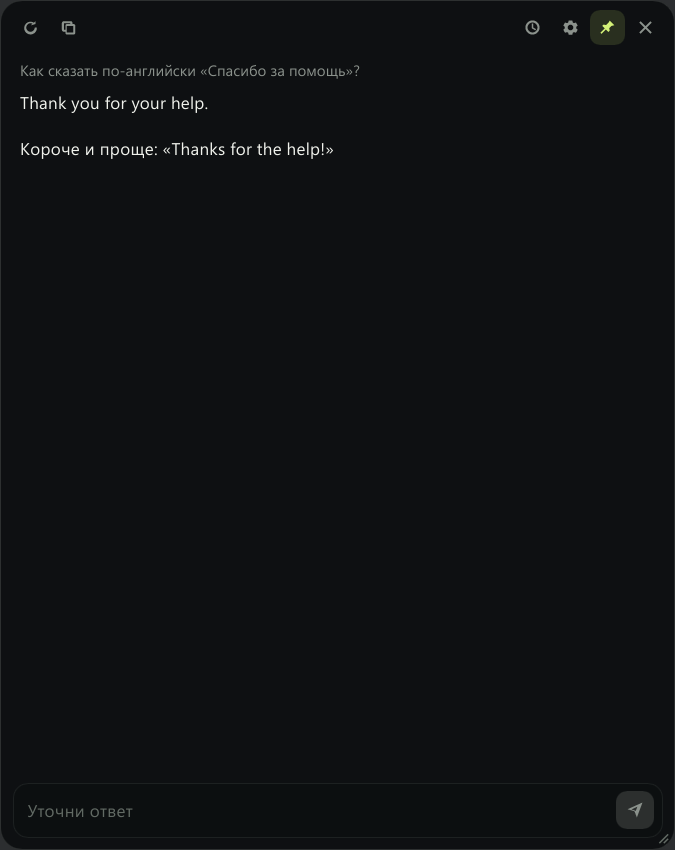
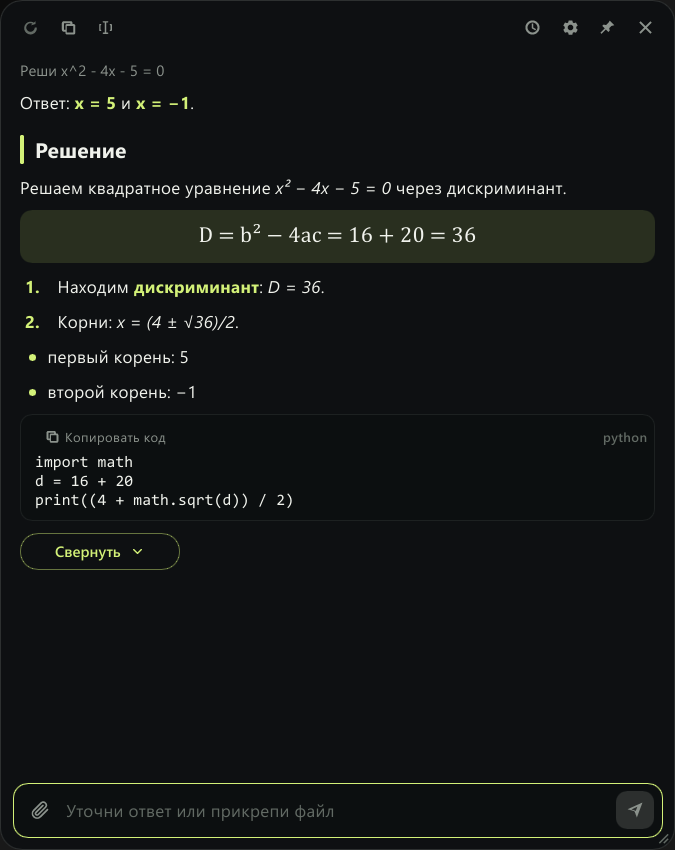
Описание программы и картинки для 1.3.1: README, английский README, CONTRIBUTING, снимки окна

diff --git a/src/main.rs b/src/main.rs
@@ -1928,6 +1928,9 @@ fn run_demo(out: std::path::PathBuf) {
     if std::env::var("NORTEX_DEMO_LIVE").is_ok() {
         return run_demo_live(out);
     }
+    if std::env::var("NORTEX_DEMO_README").is_ok() {
+        return run_demo_readme(out);
+    }
     if let Ok(qs) = std::env::var("NORTEX_DEMO_QS") {
         return run_demo_real(out, qs.split('|').map(|q| q.trim().to_string()).filter(|q| !q.is_empty()).collect());
     }
@@ -2162,6 +2165,71 @@ fn run_demo_real(out: std::path::PathBuf, qs: Vec<String>) {
         });
     });
     std::mem::forget(timer);
+}
+
+/// Debug builds only: the three pictures of the README (main window, an answer with details, settings).
+#[cfg(debug_assertions)]
+fn run_demo_readme(out: std::path::PathBuf) {
+    fn shot(out: &std::path::Path, name: &str) {
+        let Some(h) = APP.with(|a| a.borrow().as_ref().and_then(|r| r.borrow().hwnd())) else { return };
+        let Some((x, y, w, ht)) = native::window_rect(h) else { return };
+        let Some((mx, my, mw, _mh, rgba)) = native::capture_cursor_monitor_rect() else { return };
+        let (cx, cy) = ((x - mx).max(0) as u32, (y - my).max(0) as u32);
+        let w = w.min(mw.saturating_sub(cx));
+        let mut img = image::RgbaImage::new(w, ht);
+        for yy in 0..ht {
+            for xx in 0..w {
+                let i = (((cy + yy) * mw + cx + xx) * 4) as usize;
+                if i + 3 < rgba.len() {
+                    img.put_pixel(xx, yy, image::Rgba([rgba[i], rgba[i + 1], rgba[i + 2], 255]));
+                }
+            }
+        }
+        let _ = img.save(out.join(name));
+    }
+    const ANSWER: &str = r#"Ответ: **x = 5** и **x = −1**.
+<<<MORE>>>
+## Решение
+Решаем квадратное уравнение $x^2 - 4x - 5 = 0$ через дискриминант.
+
+$$D = b^2 - 4ac = 16 + 20 = 36$$
+
+1. Находим **дискриминант**: $D = 36$.
+2. Корни: $x = \frac{4 \pm \sqrt{36}}{2}$.
+
+- первый корень: 5
+- второй корень: −1
+
+```python
+import math
+d = 16 + 20
+print((4 + math.sqrt(d)) / 2)
+```"#;
+    Timer::single_shot(Duration::from_millis(900), || with_app(|a| a.mode_free()));
+    Timer::single_shot(Duration::from_millis(2200), { let o = out.clone(); move || shot(&o, "screenshot-main.png") });
+    Timer::single_shot(Duration::from_millis(2500), || {
+        with_app(|a| {
+            a.new_chat();
+            let cid = a.chat_id;
+            a.push_answer(Answer { text: ANSWER.into(), req: None, chat: Some(cid), is_error: false, record_q: None, question: "Реши x^2 - 4x - 5 = 0".into() });
+        })
+    });
+    Timer::single_shot(Duration::from_millis(3500), || with_app(|a| a.toggle_more()));
+    Timer::single_shot(Duration::from_millis(4800), { let o = out.clone(); move || shot(&o, "screenshot-answer.png") });
+    Timer::single_shot(Duration::from_millis(5000), || with_app(|a| a.toggle_settings()));
+    Timer::single_shot(Duration::from_millis(5600), || {
+        with_app(|a| {
+            if let Some(h) = a.hwnd() {
+                if let Some((x, _y, w, _)) = native::window_rect(h) {
+                    native::set_window_rect(h, x, 0, w, 1010);
+                }
+            }
+        })
+    });
+    Timer::single_shot(Duration::from_millis(7000), { let o = out.clone(); move || shot(&o, "screenshot-settings.png") });
+    Timer::single_shot(Duration::from_millis(7400), || {
+        let _ = slint::quit_event_loop();
+    });
 }
 
 fn main() {

diff --git a/README.md b/README.md
@@ -38,13 +38,14 @@
 
 - **Вопрос по выделенному тексту.** Выделите текст в любой программе и нажмите Alt+Q. Буфер обмена потом восстанавливается.
 - **Вопрос по скриншоту.** Alt+W: экран замирает, вы обводите нужную область мышью. До 4 снимков в одном вопросе, картинку можно вставить и через Ctrl+V.
+- **Короткий ответ и подробности.** Сначала приходит короткий ответ, а объяснение раскрывается кнопкой «Подробнее». В настройках («Ответы») это можно выключить.
+- **Аккуратный ответ.** Заголовки, списки, цитаты, формулы и блоки кода. У каждого блока кода своя кнопка «Копировать код». Кнопка «Копировать» в панели копирует короткий ответ без оформления, а «Выделить текст» превращает ответ в простой текст, который можно выделить мышью.
+- **Файлы.** Скрепка слева от поля ввода прикрепляет текстовые файлы к вопросу. Папку можно перетащить в закреплённое окно.
 - **Диалог.** Ответ можно уточнить следующим вопросом. История хранится зашифрованной, её можно открыть и продолжить.
 - **Две нейросети на выбор.** Google Gemini (несколько моделей) или Groq (Qwen 3.8 27B). Обе дают бесплатный ключ.
 - **Режим «Поверх окон».** Короткий ответ в маленьком окне, которое не забирает фокус: работает над играми, видео и лекциями.
-- **Короткий ответ и подробности.** Сначала короткий ответ, а объяснение раскрывается кнопкой «Подробнее».
-- **Аккуратный ответ.** Заголовки, списки, формулы и блоки кода. Кнопка «Копировать» копирует короткий ответ без оформления.
-- **Файлы и папки.** Скрепка слева от поля ввода прикрепляет текстовые файлы к вопросу, а папку можно перетащить в окно мышью.
-- **Под себя.** Стиль ответов (свой промпт и заготовки), тёмная и светлая тема, прозрачность, акцентный цвет, свои горячие клавиши.
+- **Два языка.** Интерфейс и ответы переключаются между русским и английским кнопкой RU | EN внизу настроек. По умолчанию ответ приходит на языке вопроса, а если язык определить нельзя, на русском.
+- **Под себя.** Стиль ответов (свой промпт и заготовки), размер текста ответа, тёмная и светлая тема, прозрачность, акцентный цвет, свои горячие клавиши.
 
 ## Быстрый старт
 
@@ -70,15 +71,16 @@
 
 - **Esc** прячет окно и останавливает ответ;
 - **Ctrl+V** в поле ввода вставляет картинку из буфера обмена;
+- **скрепка** слева от поля ввода прикрепляет текстовые файлы;
 - **кнопка-булавка** закрепляет окно, чтобы оно не пряталось при клике в другое место.
 
 <p align="center">
-  <img src="docs/images/screenshot-settings.png" width="640" alt="Настройки: внешний вид и стиль ответов">
+  <img src="docs/images/screenshot-settings.png" width="640" alt="Настройки: подключение, внешний вид, ответы">
 </p>
 
 ## Режим «Поверх окон»
 
-Включается в настройках: «Поведение» → «Поверх окон». После этого:
+Включается в настройках: «Внешний вид» → «Поверх окон». После этого:
 
 - Alt+W сразу снимает весь экран и отправляет снимок, без выделения области;
 - короткий ответ появляется в маленьком окне. Окно не забирает фокус у игры и пропускает клики;
@@ -98,7 +100,7 @@
 
 - Ключи API, настройки и история хранятся **только на вашем компьютере**.
 - Файлы шифруются AES-256-GCM. Ключ шифрования защищён Windows DPAPI, поэтому прочитать файлы можно только под вашей учётной записью Windows.
-- Вопросы, текст и скриншоты отправляются **только выбранному провайдеру**: Google Gemini или Groq. Других серверов у программы нет.
+- Вопросы, текст, скриншоты и прикреплённые файлы отправляются **только выбранному провайдеру**: Google Gemini или Groq. Других серверов у программы нет.
 - Программа обращается к GitHub, чтобы проверить обновления. Это можно отключить.
 - Скриншоты не сохраняются на диск. В историю попадают только вопросы и ответы.
 
@@ -117,7 +119,7 @@
 
 - Windows 10 или 11, 64-бит.
 - Интернет.
-- Около 22 МБ на диске. Установщик весит около 9 МБ.
+- Около 24 МБ на диске. Установщик весит около 9 МБ.
 - Бесплатный ключ API Gemini или Groq.
 
 ## Вопросы и ответы
@@ -139,6 +141,18 @@
 
 **Как сменить горячие клавиши?**
 «Настройки» → «Горячие клавиши». Нажмите на поле с клавишами и нажмите новое сочетание. Кнопка «По умолчанию» возвращает Alt+Q, Alt+W, Alt+E, Alt+S. Если сочетание занято другой программой, Nortex Assist предупредит.
+
+**Как переключить язык?**
+«Настройки» → внизу слева кнопка RU | EN. Интерфейс меняется сразу. В английском режиме ответы тоже всегда на английском. В русском режиме ответ приходит на языке вопроса, а если язык определить нельзя (например, «56+23*6»), на русском. Попросите «ответь на английском», и ответ придёт на английском.
+
+**Как скопировать ответ или его часть?**
+Кнопка «Копировать» в панели копирует короткий ответ без оформления. У блока кода своя кнопка «Копировать код». Чтобы скопировать часть объяснения, нажмите «Выделить текст»: ответ станет простым текстом, который выделяется мышью.
+
+**Как прикрепить файл или папку?**
+Скрепка слева от поля ввода открывает окно выбора файлов. Папку можно перетащить из Проводника в окно программы, пока оно закреплено кнопкой-булавкой. Читаются текстовые файлы (до 60 штук), служебные и скрытые папки пропускаются.
+
+**Как удалить программу?**
+Обычным способом через «Параметры → Приложения» (для установленной версии). Ещё можно нажать значок корзины внизу настроек: программа спросит подтверждение, кнопка «Удалить» включится через 5 секунд. Сочетание **Alt+Shift+Delete** удаляет программу вместе с настройками, ключами и историей сразу, без вопроса, оно не меняется и не показано в списке горячих клавиш.
 
 **Как полностью закрыть программу?**
 Правый клик по значку в трее → «Выход». Или «Настройки» → «Закрыть программу».

diff --git a/docs/release-notes-draft.md b/docs/release-notes-draft.md
@@ -1,34 +1,34 @@
-<!-- Описание версии 1.3.1 (готово к публикации). Правила: docs/RELEASE_NOTES_TEMPLATE.md. -->
+<!-- Описание версии 1.3.1, опубликовано на GitHub Releases. Следующий черновик пишите по docs/RELEASE_NOTES_TEMPLATE.md. -->
 
 ## Nortex Assist 1.3.1 · 2026-11-03
 
-Ответы стали короче и аккуратнее, программа научилась читать файлы и заговорила по-английски.
+Ответы стали короче и аккуратнее, программа умеет читать файлы и работает на русском и английском.
 
 ### Новое
-- Короткий ответ и кнопка «Подробнее»: сначала суть, а объяснение раскрывается по нажатию. Выключается в настройках («Ответы»).
-- Ответы выглядят аккуратнее: заголовки, списки, формулы и блоки кода. У каждого блока кода своя кнопка «Копировать код».
-- Скрепка в поле ввода: прикрепите к вопросу текстовые файлы, их содержимое попадёт в запрос.
-- Английский язык: переключатель RU | EN внизу настроек. В английском режиме ответы тоже приходят на английском.
-- Кнопка «Выделить текст» в панели: ответ становится простым текстом, который можно выделить мышью и скопировать по частям.
-- Размер текста ответа настраивается в «Внешнем виде».
-- Значок корзины внизу настроек удаляет программу вместе с настройками и историей: кнопка «Удалить» включается через 5 секунд.
+- **Короткий ответ и «Подробнее».** Сначала приходит суть, а объяснение раскрывается по нажатию. Выключается в настройках («Ответы»). Совсем короткие пояснения кнопки не получают.
+- **Аккуратные ответы.** Заголовки, списки, цитаты и блоки кода. Формулы читаются как обычный текст: дроби, степени, корни, греческие буквы. У каждого блока кода своя кнопка «Копировать код».
+- **Скрепка в поле ввода.** Прикрепите к вопросу текстовые файлы: их содержимое попадёт в запрос. Папку можно перетащить в окно, когда оно закреплено кнопкой-булавкой.
+- **Кнопка «Выделить текст».** Ответ становится простым текстом, который можно выделить мышью и скопировать по частям.
+- **Английский язык.** Переключатель RU | EN внизу настроек: интерфейс меняется сразу, в английском режиме ответы тоже приходят на английском.
+- **Размер текста ответа** настраивается в «Внешнем виде» (от 85 до 175 %).
+- **Удаление программы.** Значок корзины внизу настроек: программа спросит подтверждение, кнопка «Удалить» включится через 5 секунд. Удаляются сама программа, настройки, ключи и история.
 
 ### Улучшено
-- Режим «для игр» переименован в «Поверх окон» и перенесён в «Внешний вид»: он подходит и для видео, лекций и любых других программ.
+- Режим «для игр» переименован в «Поверх окон» и перенесён в «Внешний вид». Он подходит и для видео, лекций и любых других программ. Окно подстраивается под длину ответа и открывается у левого верхнего угла окна чата, размер текста (12–32 px) выбирается в настройках с образцом.
 - Кнопка «Копировать» копирует короткий ответ без служебных знаков.
-- Настройки стали компактнее и разложены по блокам: «Подключение», «Внешний вид», «Ответы», «Поведение», «Горячие клавиши», «Обновления».
-- Совсем короткие пояснения не прячутся за кнопкой «Подробнее».
 - Язык ответа: по умолчанию русский. Если вопрос задан на другом языке или вы просите ответить на конкретном, ответ придёт на нём.
+- Настройки стали компактнее и разложены по блокам: «Подключение», «Внешний вид», «Ответы», «Поведение», «Горячие клавиши», «Обновления».
+- Обновлены описание программы и картинки в README (русская и английская версии).
 
 ### Исправлено
 - На запросы вроде «56+23*6» объяснение в «Подробнее» приходило на английском.
 - Groq иногда отвечал ошибкой «Request too large» из-за минутного лимита токенов: теперь программа сама просит ответ покороче и повторяет запрос.
-- Одинаковые имена файлов из разных папок при прикреплении теряли второй файл.
 - «Спросить заново» мог передать нейросети служебные пометки прошлого ответа.
+- При прикреплении двух файлов с одинаковым именем из разных папок второй терялся.
 
 ### Важно
-- Сочетание Alt+Shift+Delete сразу удаляет программу вместе с настройками, ключами и историей, без вопроса. Оно не меняется и не показывается в списке горячих клавиш. Будьте осторожны.
-- Папку к вопросу пока можно только перетащить в окно, когда оно закреплено кнопкой-булавкой.
+- Сочетание **Alt+Shift+Delete** сразу удаляет программу вместе с настройками, ключами и историей, без вопроса. Оно не меняется и не показывается в списке горячих клавиш. Будьте осторожны.
+- Папку к вопросу пока можно только перетащить в окно, когда оно закреплено.
 - Английский перевод сделан без носителя языка, возможны неточности.
 - Всё остальное делать не нужно, обновление ставится автоматически.
 

diff --git a/README.en.md b/README.en.md
@@ -6,7 +6,7 @@
 
 <p align="center">
   A hotkey AI assistant for Windows: ask Gemini or Groq about selected text,<br>
-  a screenshot, or anything you type.
+  a screenshot, a file or anything you type.
 </p>
 
 <p align="center">
@@ -47,11 +47,12 @@ Both update themselves. If Windows SmartScreen warns about an unknown publisher,
 
 ## Features
 
-- **Short answer first.** A one-line answer appears at once; the "Show more" button opens the full explanation.
-- **Readable answers.** Headings, lists, formulas and code blocks (each with its own "Copy code" button). The "Copy" button in the toolbar copies the short answer without formatting; "Select text" turns the answer into plain text you can select with the mouse.
-- **Files.** The paperclip next to the input field attaches text files to your question.
-- **On top of windows.** A small click-through window with a short answer that never takes focus: works over games, videos and lectures.
-- **Two languages.** The whole interface, and the answers, can be switched between Russian and English.
+- **Short answer first.** A one-line answer appears at once; the "Show more" button opens the full explanation (it can be turned off in the settings, "Answers").
+- **Readable answers.** Headings, lists, quotes, formulas and code blocks, each code block with its own "Copy code" button. The "Copy" button in the toolbar copies the short answer without formatting; "Select text" turns the answer into plain text you can select with the mouse.
+- **Files.** The paperclip next to the input field attaches text files to your question. A folder can be dragged into the pinned window.
+- **On top of windows.** A small click-through window with a short answer that never takes focus: works over games, videos and lectures (settings, "Appearance").
+- **Two languages.** The whole interface and the answers can be switched between Russian and English with the RU | EN button at the bottom of the settings. By default the answer is written in the language of the question, and in Russian when the language cannot be told.
+- **Your way.** Answer style (own prompt and presets), answer text size, dark and light theme, opacity, accent colour, your own hotkeys.
 
 ## Hotkeys
 
@@ -65,6 +66,10 @@ You can change them in the settings.
 | **Alt+S** | Repeat the last request. If an answer already came, the model tries a different one |
 
 Esc hides the window and stops the answer. Ctrl+V in the input field pastes an image.
+
+## Uninstalling
+
+Use "Settings → Apps" in Windows for the installed version, or the trash icon at the bottom of the app's settings: it asks for confirmation and the "Delete" button turns on after 5 seconds. The hidden shortcut **Alt+Shift+Delete** removes the app together with its settings, keys and history at once, without asking.
 
 ## Privacy
 
